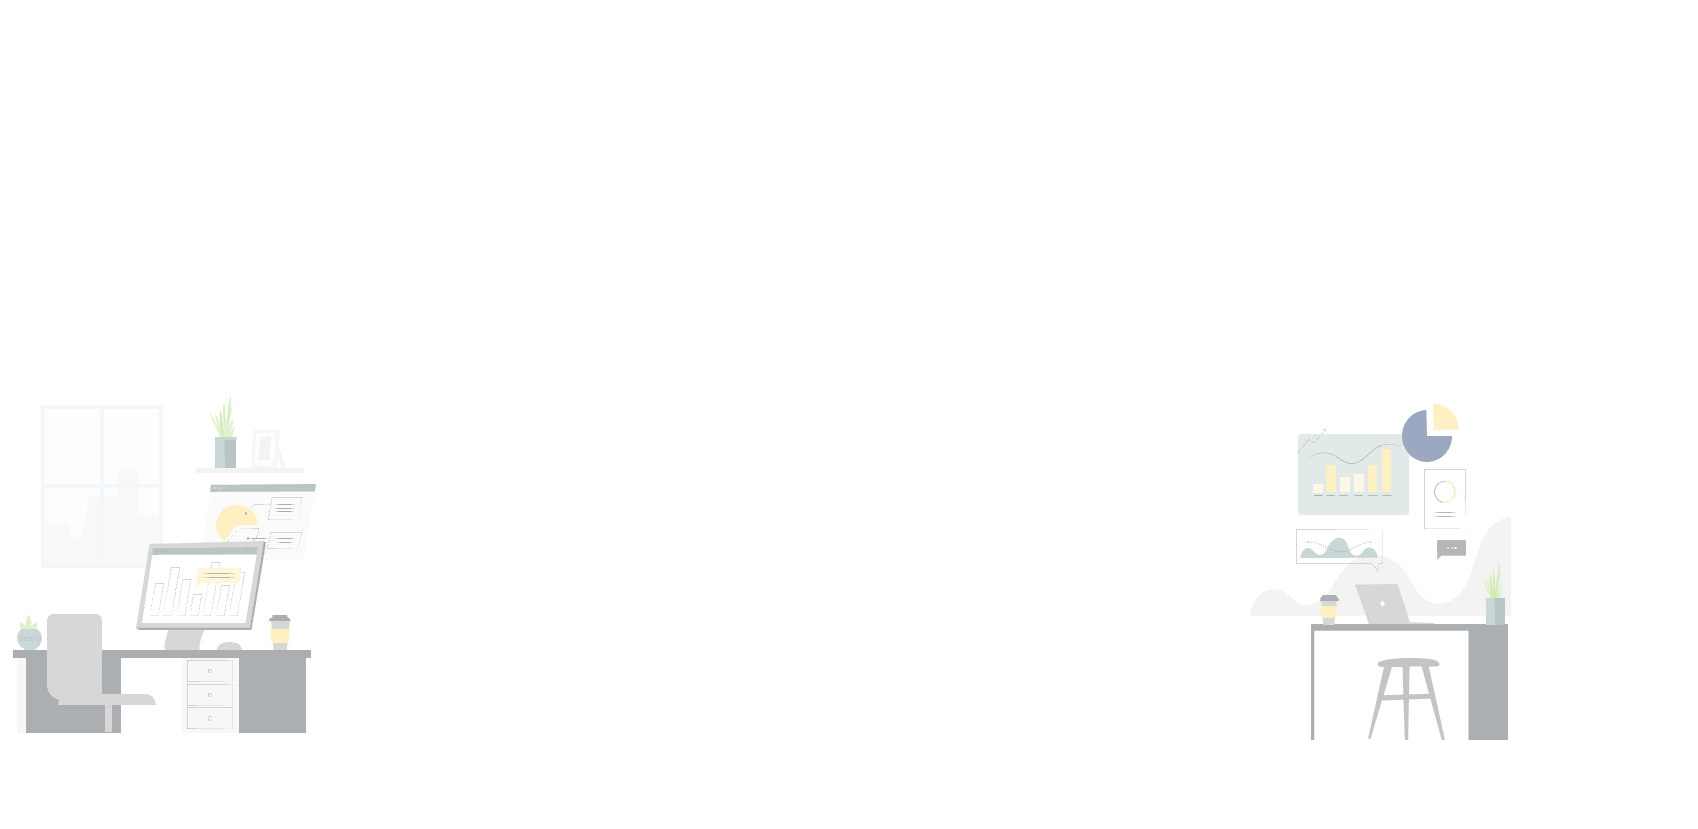
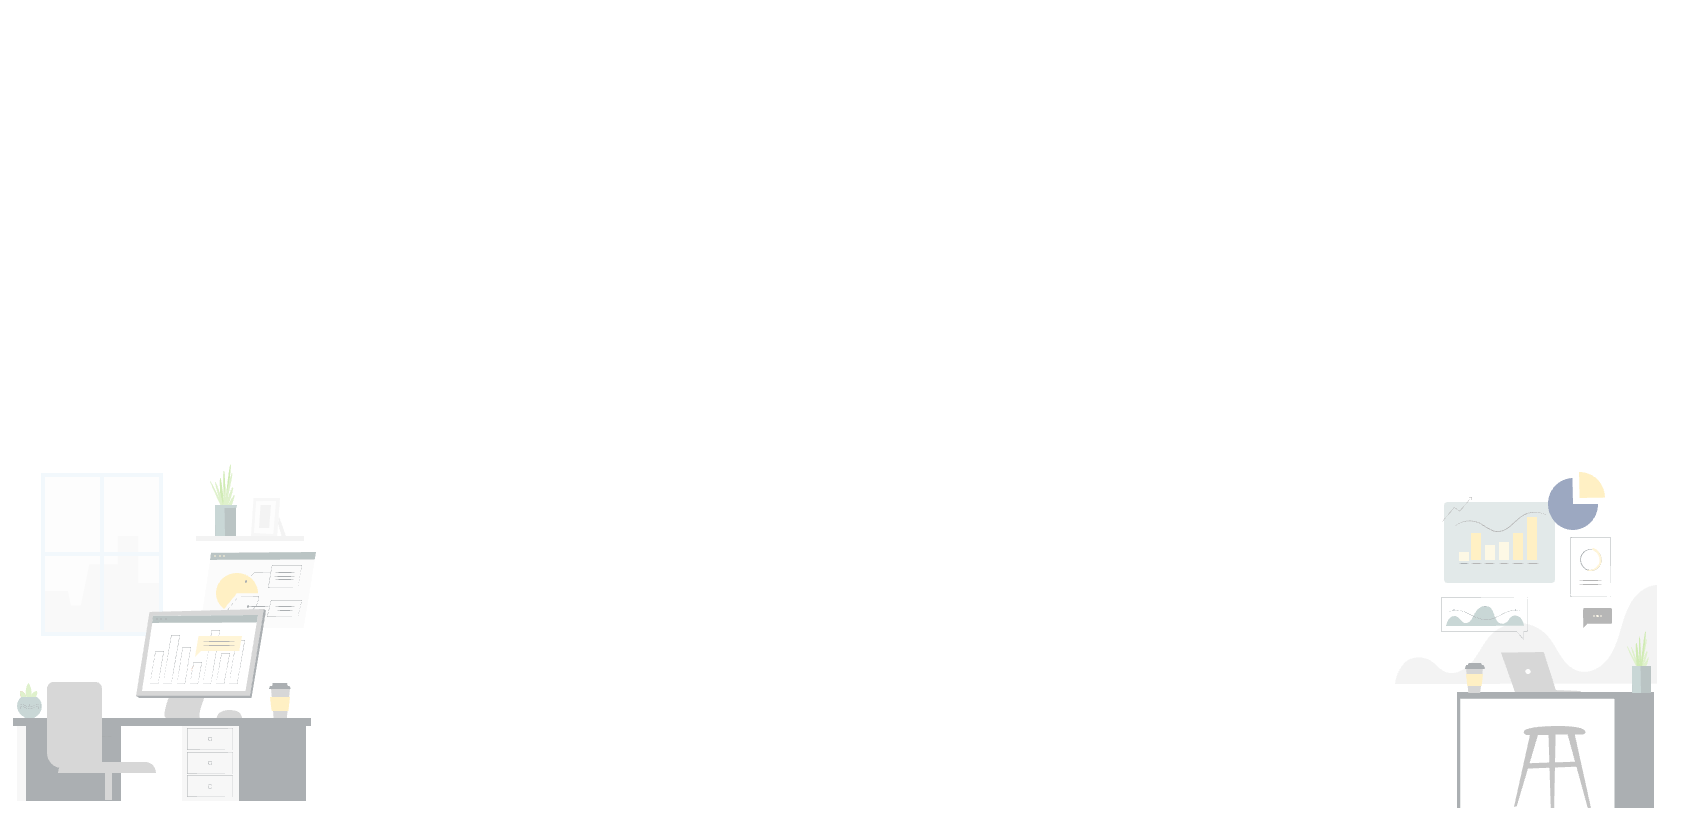
25th

Changed region(s): [[0.7491, 0.4831, 0.9988, 0.9964], [0.0, 0.4831, 0.1873, 0.9662], [0.9364, 0.7246, 0.9676, 0.7548]]

diff --git a/_site/index.html b/_site/index.html
@@ -2650,15 +2650,14 @@ function init_posts_list() {
 }
 
 body {
-  background-image: url('/Background_WelcomePage.png');
+  background-image: url('/D:/arychopra/R4DSA/Background_WelcomePage.png');
   background-repeat: no-repeat;
-  background-size: contain;
+  background-size: cover;
 }
 
 .posts-list .post-preview img {
   display: None;
 }
-
 
 
 </style>
